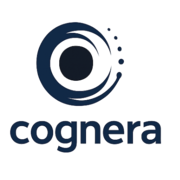
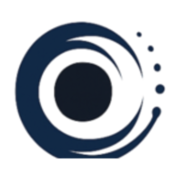
fix: Improve brand assets, contact form, and test infrastructure
- Replace custom SK flag SVG (identical to Russian flag without
  coat of arms) with emoji flags matching the centera.cz approach
- Add Cognera logo to Cognera CRM project card and always show the
  product name above the subtitle for visual consistency
- Enlarge project logo display so stacked icon+wordmark doesn't
  clip on the baseline
- Regenerate favicons as icon-only marks so the 16/32 px variants
  stay legible (was squeezed stacked logo, unreadable at tab size)
- Rename internal tool metric from 'Multi-CLI' to 'Multi-harness' —
  more accurate term for the runtime layer around the model
- Rewrite stale TechSection test against the current component API
  and fix jest-dom type augmentation for @jest/expect so matchers
  type-check correctly

diff --git a/src/components/ContactForm.tsx b/src/components/ContactForm.tsx
@@ -6,42 +6,25 @@ import { Check, Send, Loader2 } from "./Icon";
 
 type CountryKey = "cz" | "sk";
 
-function CzFlag({ className }: { className?: string }) {
+function Flag({ emoji, className }: { emoji: string; className?: string }) {
   return (
-    <svg
-      viewBox="0 0 6 4"
+    <span
       aria-hidden="true"
       className={className}
-      preserveAspectRatio="xMidYMid slice"
+      style={{
+        fontFamily:
+          '"Apple Color Emoji","Segoe UI Emoji","Noto Color Emoji","Twemoji Mozilla",sans-serif',
+        lineHeight: 1,
+      }}
     >
-      <rect width="6" height="2" fill="#ffffff" />
-      <rect y="2" width="6" height="2" fill="#d7141a" />
-      <polygon points="0,0 3,2 0,4" fill="#11457e" />
-    </svg>
+      {emoji}
+    </span>
   );
 }
 
-function SkFlag({ className }: { className?: string }) {
-  return (
-    <svg
-      viewBox="0 0 6 4"
-      aria-hidden="true"
-      className={className}
-      preserveAspectRatio="xMidYMid slice"
-    >
-      <rect width="6" height="1.333" fill="#ffffff" />
-      <rect y="1.333" width="6" height="1.334" fill="#0b4ea2" />
-      <rect y="2.667" width="6" height="1.333" fill="#ee1620" />
-    </svg>
-  );
-}
-
-const COUNTRIES: Record<
-  CountryKey,
-  { code: string; label: string; Flag: (p: { className?: string }) => React.ReactElement }
-> = {
-  cz: { code: "+420", label: "Česká republika", Flag: CzFlag },
-  sk: { code: "+421", label: "Slovensko", Flag: SkFlag },
+const COUNTRIES: Record<CountryKey, { code: string; label: string; emoji: string }> = {
+  cz: { code: "+420", label: "Česká republika", emoji: "🇨🇿" },
+  sk: { code: "+421", label: "Slovensko", emoji: "🇸🇰" },
 };
 
 interface FormState {
@@ -282,12 +265,11 @@ export default function ContactForm() {
               aria-label={`Předvolba ${COUNTRIES[country].code}, ${COUNTRIES[country].label}`}
               className="flex items-center gap-2 rounded-l-xl border-r border-slate-200 px-3 text-sm font-medium text-slate-700 transition-colors hover:bg-slate-50"
             >
-              {(() => {
-                const Flag = COUNTRIES[country].Flag;
-                return (
-                  <Flag className="h-3.5 w-5 overflow-hidden rounded-sm ring-1 ring-slate-200" />
-                );
-              })()}
+              <Flag
+                emoji={COUNTRIES[country].emoji}
+                className="text-base leading-none"
+              />
+
               <span className="tabular-nums">{COUNTRIES[country].code}</span>
               <ChevronDown
                 size={14}
@@ -318,7 +300,7 @@ export default function ContactForm() {
               className="absolute left-0 top-full z-20 mt-2 w-[min(18rem,100%)] overflow-hidden rounded-xl border border-slate-200 bg-white shadow-lg"
             >
               {(Object.keys(COUNTRIES) as CountryKey[]).map((key) => {
-                const { code, label, Flag } = COUNTRIES[key];
+                const { code, label, emoji } = COUNTRIES[key];
                 const isSelected = country === key;
                 return (
                   <li key={key}>
@@ -334,7 +316,7 @@ export default function ContactForm() {
                         isSelected ? "bg-blue-50/60 text-slate-950" : "text-slate-700"
                       }`}
                     >
-                      <Flag className="h-4 w-6 flex-shrink-0 overflow-hidden rounded-sm ring-1 ring-slate-200" />
+                      <Flag emoji={emoji} className="text-lg leading-none" />
                       <span className="flex-1 font-medium">{label}</span>
                       <span className="tabular-nums text-slate-500">{code}</span>
                     </button>

diff --git a/src/lib/site-content.ts b/src/lib/site-content.ts
@@ -130,6 +130,7 @@ export const projects: ProjectRef[] = [
     subtitle: "Provozní páteř Cognery a živý důkaz agentního vývoje",
     description:
       "Jednotné prostředí, kde se řídí celá Cognera — výkazy práce s automatickým návrhem z commitů i záznamů ze schůzek, projekty napojené na repozitáře, rozpočty, hodinové sazby a schvalovací workflow faktur, zrcadlení issues, portál pro zákazníky a AI chat nad firemní dokumentací s RAG vyhledáváním. Postavené vlastními agenty na vlastních nástrojích — naše CRM je zároveň referenční implementace agentního vývoje v praxi.",
+    logo: "/logo-256.png",
     tags: [
       "React 19",
       "NestJS 11",
@@ -154,8 +155,8 @@ export const internalTools: InternalTool[] = [
     name: "Forge",
     tagline: "Autonomní vývojová platforma",
     description:
-      "Naše vlajková AI platforma pro autonomní softwarový vývoj. Paralelně orchestruje nejsilnější modely (Claude, GPT, Gemini) přes několik CLI nástrojů najednou a dynamicky volí optimální kombinaci podle typu zadání. Workflow obsahuje rozhodovací body — každá fáze validuje svůj výstup a může proces přesměrovat nebo přidat revizi. Spec-first, izolovaná prostředí pro každý úkol, multi-modální vstupy i výstupy.",
-    metric: "Multi-model · Multi-CLI",
+      "Naše vlajková AI platforma pro autonomní softwarový vývoj. Paralelně orchestruje nejsilnější modely (Claude, GPT, Gemini) přes několik harnessů najednou a dynamicky volí optimální kombinaci podle typu zadání. Workflow obsahuje rozhodovací body — každá fáze validuje svůj výstup a může proces přesměrovat nebo přidat revizi. Spec-first, izolovaná prostředí pro každý úkol, multi-modální vstupy i výstupy.",
+    metric: "Multi-model · Multi-harness",
     icon: "fa-hammer",
   },
   {

diff --git a/__tests__/tech-section.test.tsx b/__tests__/tech-section.test.tsx
@@ -1,0 +1,40 @@
+import { describe, expect, test } from "@jest/globals";
+import { fireEvent, render } from "@testing-library/react";
+import TechSection from "@/components/TechSection";
+import { techCategories } from "@/lib/site-content";
+
+function getRailButton(container: HTMLElement, index: number) {
+  const btn = container.querySelector<HTMLButtonElement>(
+    `button[data-tech-index="${index}"]`
+  );
+  if (!btn) {
+    throw new Error(`Rail button with data-tech-index="${index}" not found`);
+  }
+  return btn;
+}
+
+describe("TechSection", () => {
+  test("renders a rail button for each tech category", () => {
+    const { container } = render(<TechSection />);
+
+    techCategories.forEach((_, i) => {
+      expect(getRailButton(container, i)).toBeInTheDocument();
+    });
+  });
+
+  test("marks the first category as active by default", () => {
+    const { container } = render(<TechSection />);
+
+    expect(getRailButton(container, 0)).toHaveAttribute("aria-pressed", "true");
+    expect(getRailButton(container, 1)).toHaveAttribute("aria-pressed", "false");
+  });
+
+  test("switches the active tab when another category is clicked", () => {
+    const { container } = render(<TechSection />);
+
+    fireEvent.click(getRailButton(container, 2));
+
+    expect(getRailButton(container, 0)).toHaveAttribute("aria-pressed", "false");
+    expect(getRailButton(container, 2)).toHaveAttribute("aria-pressed", "true");
+  });
+});

diff --git a/src/components/ProjectsSection.tsx b/src/components/ProjectsSection.tsx
@@ -20,19 +20,20 @@ export default function ProjectsSection() {
         <div className="mt-10 grid gap-4 sm:mt-14 sm:gap-6 lg:grid-cols-2">
           {projects.map((project) => (
             <article key={project.name} className="premium-card p-5 sm:p-7 lg:p-8">
-              {project.logo ? (
+              {project.logo && (
                 <Image
                   src={project.logo}
                   alt={project.name}
-                  width={40}
-                  height={40}
-                  sizes="40px"
-                  className="h-10 w-10 rounded-lg object-contain"
+                  width={128}
+                  height={128}
+                  sizes="64px"
+                  className="h-16 w-auto object-contain"
                 />
-              ) : (
-                <p className="section-kicker">{project.name}</p>
               )}
-              <h3 className="mt-3 font-display text-xl font-semibold text-slate-950 sm:text-2xl lg:text-3xl">
+              <p className={`section-kicker ${project.logo ? "mt-4" : ""}`}>
+                {project.name}
+              </p>
+              <h3 className="mt-2 font-display text-xl font-semibold text-slate-950 sm:text-2xl lg:text-3xl">
                 {project.subtitle}
               </h3>
               <p className="mt-3 text-sm leading-7 text-slate-600 sm:mt-4 sm:text-base">

diff --git a/jest.setup.ts b/jest.setup.ts
@@ -1,4 +1,4 @@
-import "@testing-library/jest-dom";
+import "@testing-library/jest-dom/jest-globals";
 
 Object.defineProperty(window, "matchMedia", {
   writable: true,

diff --git a/jest-dom.d.ts b/jest-dom.d.ts
@@ -1,0 +1,1 @@
+import "@testing-library/jest-dom/jest-globals";
